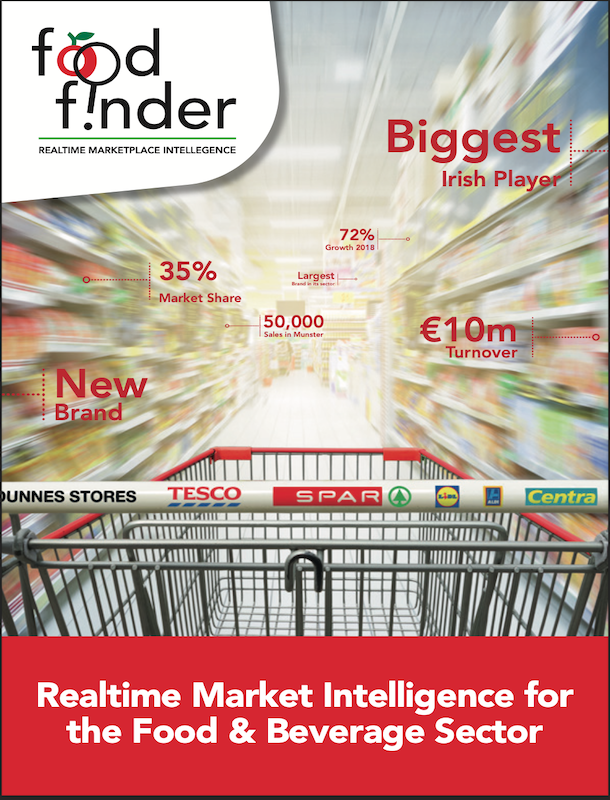
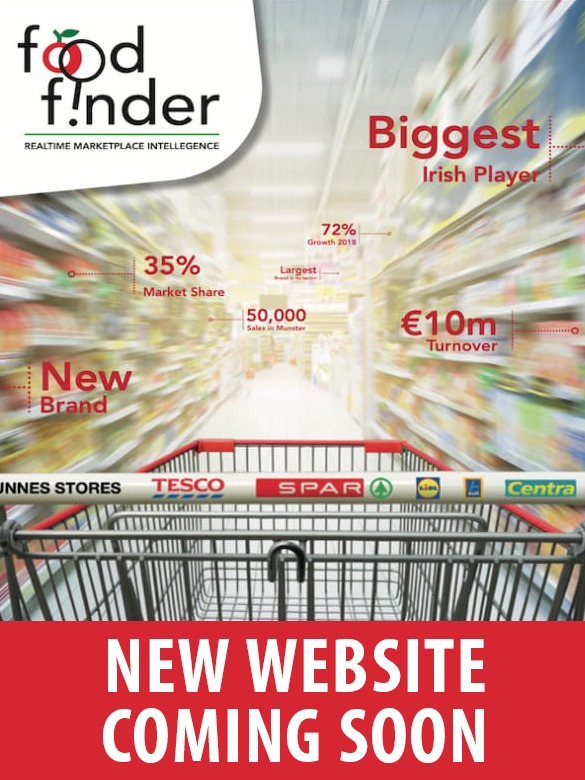
Single image based site

diff --git a/styles.css b/styles.css
@@ -1,0 +1,101 @@
+@import url("https://fonts.googleapis.com/css2?family=Libre+Franklin:wght@300;600;700&display=swap");
+
+:root {
+  --body-font: "Libre Franklin", sans-serif;
+  --blue: hsl(223, 87%, 63%);
+  --pale-blue: hsl(223, 100%, 88%);
+  --light-red: hsl(354, 100%, 66%);
+  --gray: hsl(0, 0%, 59%);
+  --very-dark-blue: hsl(209, 33%, 12%);
+  --white: white;
+}
+
+* {
+  padding: 0;
+  margin: 0;
+}
+
+html {
+  font-size: 20px;
+}
+
+body {
+  -ms-overflow-style: none; /* for Internet Explorer, Edge */
+  scrollbar-width: none; /* for Firefox */
+  overflow-y: scroll;
+  box-sizing: border-box;
+  font-family: var(--body-font);
+}
+body::-webkit-scrollbar {
+  display: none; /* for Chrome, Safari, and Opera */
+}
+
+/* Main Container */
+main {
+  width: 100%;
+  display: flex;
+  flex-direction: column;
+  align-items: center;
+  margin-top: 4.4rem;
+}
+/* Title Section */
+.title-section {
+  margin-top: -0.7rem;
+  line-height: 2.8rem;
+  text-align: center;
+}
+
+.title-section h1 {
+  font-size: 2.3rem;
+  letter-spacing: 1px;
+  font-weight: 300;
+  color: var(--gray);
+}
+
+.soon {
+  font-weight: 700;
+  color: initial;
+}
+
+.title-info {
+  color: var(--very-dark-blue);
+}
+
+/* Statistics IMG */
+.statistics-img {
+  background-image: url("images/hero-desktop.jpg");
+  background-size: 80%;
+  background-repeat: no-repeat;
+  background-position: top;
+  height: 50rem;
+  width: 40rem;
+  margin-top: 4.3rem;
+}
+
+@media (hover: hover) {
+  .social-media .fa-brands:hover {
+    background-color: var(--blue);
+    color: var(--white);
+    transition: all ease-in-out 0.3s;
+  }
+  .input-section button:hover {
+    background-color: var(--pale-blue);
+    transition: all ease-in-out 0.3s;
+  }
+}
+
+@media screen and (max-width: 900px) {
+  .statistics-img {
+    background-size: 70%;
+    width: 25rem;
+  }
+}
+@media screen and (max-width: 701px) {
+}
+
+@media screen and (max-width: 500px) {
+  .statistics-img {
+    background-size: 80%;
+    width: 20rem;
+  }
+}

diff --git a/index.html b/index.html
@@ -1,32 +1,28 @@
 <!DOCTYPE html>
 <html lang="en">
-	<head>
-		<meta charset="UTF-8" />
-		<meta name="viewport" content="width=device-width, initial-scale=1.0" />
-		<title>Food Finder - Realtime Marketplace Intelligence</title>
-		<link rel="stylesheet" href="style.css" type="text/css" media="all" />
-		<link rel="shortcut icon" type="image/x-icon" href="images/diet.png">
-	</head>
 
-	<body>
-		<div class="container">
-			<header>
-				<!-- <img class="logo" src="./images/logo.svg" alt="logo" /> -->
-			</header>
-			<section class="hero">
-				<img src="./images/hero-mobile.png" alt="hero-image" />
-			</section>
-			<main>
-				<div class="wrapper">
-					<h1 class="heading">
-						<span>Food Finder</span>
-						<br />Realtime<br />Marketplace<br />Intelligence
-					</h1>
-					<p class="lead">
-						We'll be back with our new website soon.
-					</p>
-				</div>
-			</main>
-		</div>
-	</body>
+<head>
+    <meta charset="UTF-8">
+    <meta name="viewport" content="width=device-width, initial-scale=1.0">
+    <link rel="icon" type="image/png" sizes="32x32" href="images/favicon-32x32.png">
+    <link rel="stylesheet" href="styles.css">
+    <link rel="stylesheet" href="https://cdnjs.cloudflare.com/ajax/libs/font-awesome/6.0.0/css/all.min.css"
+          integrity="sha512-9usAa10IRO0HhonpyAIVpjrylPvoDwiPUiKdWk5t3PyolY1cOd4DSE0Ga+ri4AuTroPR5aQvXU9xC6qOPnzFeg=="
+          crossorigin="anonymous" referrerpolicy="no-referrer"/>
+    <title>Food Finder - Realtime Marketplace Intelligence</title>
+    <link rel="shortcut icon" type="image/x-icon" href="images/diet.png">
+
+</head>
+
+<body>
+<main>
+    <article class="title-section">
+        <h1>We are launching our website <span class="soon">soon!</span></h1>
+    </article>
+    <article>
+        <div class="statistics-img"></div>
+    </article>
+</main>
+</body>
+
 </html>

diff --git a/app.js b/app.js
@@ -1,0 +1,30 @@
+"use strict";
+
+const inputEl = document.querySelector(".email-input");
+const submitBtn = document.querySelector(".submit-btn");
+const errorMsg = document.querySelector(".email-input-message");
+const emailValidation = /^\w+([\.-]?\w+)*@\w+([\.-]?\w+)*(\.\w{2,3})+$/;
+
+const timeoutFunc = setInterval(() => {
+  errorMsg.style.display = "none";
+}, 2500);
+
+submitBtn.addEventListener("click", function () {
+  if (inputEl.value.length === 0) {
+    errorMsg.style.display = "inline";
+    errorMsg.textContent = "Whoops! It looks like you forgot to add your email";
+    timeoutFunc;
+  } else if (
+    !inputEl.value.match(emailValidation) &&
+    inputEl.value.length !== 0
+  ) {
+    errorMsg.style.display = "inline";
+    errorMsg.textContent = "Please provide a valid email address";
+    timeoutFunc;
+  } else {
+    errorMsg.style.display = "inline";
+    errorMsg.style.color = "green";
+    errorMsg.textContent = "We sent you a gift, check it out!";
+    timeoutFunc;
+  }
+});

diff --git a/bkp2/index.html b/bkp2/index.html
@@ -1,0 +1,32 @@
+<!DOCTYPE html>
+<html lang="en">
+	<head>
+		<meta charset="UTF-8" />
+		<meta name="viewport" content="width=device-width, initial-scale=1.0" />
+		<title>Food Finder - Realtime Marketplace Intelligence</title>
+		<link rel="stylesheet" href="style.css" type="text/css" media="all" />
+		<link rel="shortcut icon" type="image/x-icon" href="images/diet.png">
+	</head>
+
+	<body>
+		<div class="container">
+			<header>
+				<!-- <img class="logo" src="./images/logo.svg" alt="logo" /> -->
+			</header>
+			<section class="hero">
+				<img src="./images/hero-mobile.png" alt="hero-image" />
+			</section>
+			<main>
+				<div class="wrapper">
+					<h1 class="heading">
+						<span>Food Finder</span>
+						<br />Realtime<br />Marketplace<br />Intelligence
+					</h1>
+					<p class="lead">
+						We'll be back with our new website soon.
+					</p>
+				</div>
+			</main>
+		</div>
+	</body>
+</html>
